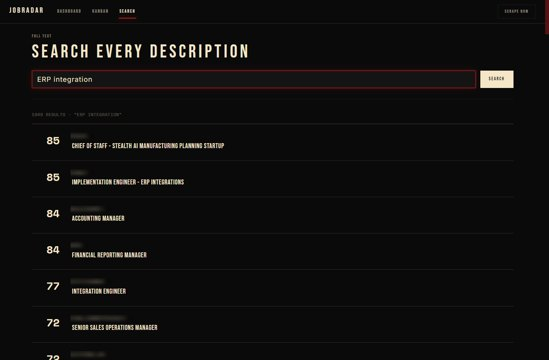
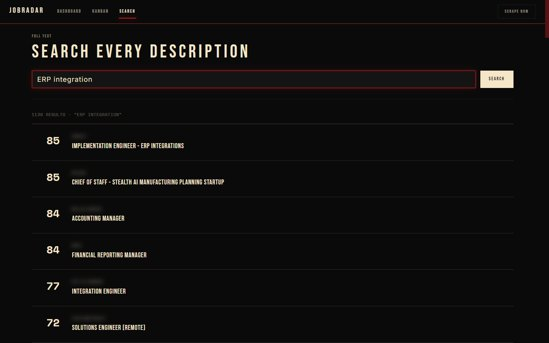
auto(atlas-public): portfolio/static+portfolio/templates (4 files)

diff --git a/portfolio/templates/root_landing.html b/portfolio/templates/root_landing.html
@@ -58,7 +58,8 @@
   {# 2026-08-03: the map thumbnail was pulled with the rest of the home-page
      imagery. Every shelf is now text only and the images live on the page
      each card opens, where they can be read at full size. #}
-  <a class="root-tile" data-pack="revops" href="/platform" data-reveal>
+  <a class="root-tile has-icon" data-pack="revops" href="/platform" data-reveal>
+    <i class="root-tile-icon ph-thin ph-tree-structure" aria-hidden="true"></i>
     <span class="root-tile-eyebrow">Production system</span>
     <h2 class="root-tile-title">The revenue operations platform I built and run</h2>
     <p class="root-tile-scenarios">The company runs on an ERP that was never built to talk to anything else, and people moved data between the tools by hand. This is the layer that connects them: the tax reconciliation that cost accounting a week every month runs nightly, and ~17K duplicate account groups resolve to the real customer behind them. It has run in production since February 2026, built and maintained alongside a full-time marketing role.</p>
@@ -109,7 +110,8 @@
 </section>
 
 <section class="root-tiles container" aria-label="Personal production environment">
-  <a class="root-tile" data-pack="radar" href="/systems/job-pipeline" data-reveal>
+  <a class="root-tile has-icon" data-pack="radar" href="/systems/job-pipeline" data-reveal>
+    <i class="root-tile-icon ph-thin ph-funnel" aria-hidden="true"></i>
     <span class="root-tile-eyebrow">Data pipeline</span>
     <h2 class="root-tile-title">A scoring pipeline over more than 108,000 job postings, built to reject fast and score slow</h2>
     <p class="root-tile-scenarios">Six scrapers pull postings into one archive, and a scoring pass ranks each one against the work I actually do. The cheap checks run first, so most postings never reach the model at all.</p>
@@ -117,7 +119,8 @@
     <span class="root-tile-cta">Read how it works &rarr;</span>
   </a>
 
-  <a class="root-tile" data-pack="ai-stack" href="/systems/gpu" data-reveal>
+  <a class="root-tile has-icon" data-pack="ai-stack" href="/systems/gpu" data-reveal>
+    <i class="root-tile-icon ph-thin ph-graphics-card" aria-hidden="true"></i>
     <span class="root-tile-eyebrow">Self-hosted AI</span>
     <h2 class="root-tile-title">A scheduler and cost ledger for the one GPU my whole home lab shares</h2>
     <p class="root-tile-scenarios">Every AI job in the house runs on one card, so I built the scheduler that decides who gets it, the lease that hands the whole card to one job at a time, and the ledger that rebuilds what each program spent.</p>
@@ -125,7 +128,8 @@
     <span class="root-tile-cta">Read how it works &rarr;</span>
   </a>
 
-  <a class="root-tile" data-pack="genome" href="/systems/genome" data-reveal>
+  <a class="root-tile has-icon" data-pack="genome" href="/systems/genome" data-reveal>
+    <i class="root-tile-icon ph-thin ph-quotes" aria-hidden="true"></i>
     <span class="root-tile-eyebrow">Structured extraction</span>
     <h2 class="root-tile-title">A pipeline that turns community game guides into data a handheld can browse offline</h2>
     <p class="root-tile-scenarios">The model reads the guides and picks out the facts, but it isn't allowed to write any of them. Every line on the device is copied from a real guide, and anything it can't ground it skips.</p>
@@ -133,7 +137,8 @@
     <span class="root-tile-cta">Read how it works &rarr;</span>
   </a>
 
-  <a class="root-tile" data-pack="cad" href="/systems/cad" data-reveal>
+  <a class="root-tile has-icon" data-pack="cad" href="/systems/cad" data-reveal>
+    <i class="root-tile-icon ph-thin ph-cube" aria-hidden="true"></i>
     <span class="root-tile-eyebrow">Computational design</span>
     <h2 class="root-tile-title">An agent pipeline that rebuilds 3D meshes into editable CAD solids</h2>
     <p class="root-tile-scenarios">I start from a downloaded mesh, agents rebuild it into a real editable solid, and I make my changes from there. Every rebuild is checked against the original shape before it's accepted.</p>
@@ -148,8 +153,12 @@
 </section>
 
 <nav class="root-tiles container" aria-label="Industry explorations">
+  {% set pack_icons = {'saas': 'ph-chart-line-up', 'home-care': 'ph-heartbeat',
+                       'vertical-ai': 'ph-tooth', 'sca': 'ph-shield-check',
+                       'distribution': 'ph-truck'} %}
   {% for p in packs %}
-  <a class="root-tile" data-pack="{{ p.id }}" href="/{{ p.id }}" data-reveal>
+  <a class="root-tile has-icon" data-pack="{{ p.id }}" href="/{{ p.id }}" data-reveal>
+    <i class="root-tile-icon ph-thin {{ pack_icons.get(p.id, 'ph-squares-four') }}" aria-hidden="true"></i>
     {#
       5-layer card (2026-04-11):
       1. eyebrow         - vertical label (reuses .root-tile-eyebrow)

diff --git a/portfolio/static/css/portfolio.css b/portfolio/static/css/portfolio.css
@@ -2420,6 +2420,29 @@ body[data-pack="distribution"] {
   transition: border-color var(--t-base), background var(--t-base), transform var(--t-base);
 }
 
+/* 2026-08-04: one thin Phosphor glyph per tile, tinted with the tile's own
+   accent. It gives the empty right half a subject without claiming imagery
+   the tile can't back. Text keeps clear of it via the padding bump; both
+   collapse together at narrow widths, where the text needs the room. */
+.root-tile.has-icon { padding-right: 200px; }
+.root-tile-icon {
+  position: absolute;
+  right: 38px;
+  top: 50%;
+  transform: translateY(-50%);
+  font-size: 112px;
+  line-height: 1;
+  color: var(--brand-accent);
+  opacity: 0.16;
+  pointer-events: none;
+  transition: opacity var(--t-base);
+}
+.root-tile:hover .root-tile-icon { opacity: 0.3; }
+@media (max-width: 860px) {
+  .root-tile.has-icon { padding-right: var(--space-6); }
+  .root-tile-icon { display: none; }
+}
+
 .root-tile:hover {
   border-color: var(--brand-accent);
   background: var(--brand-accent-soft);
